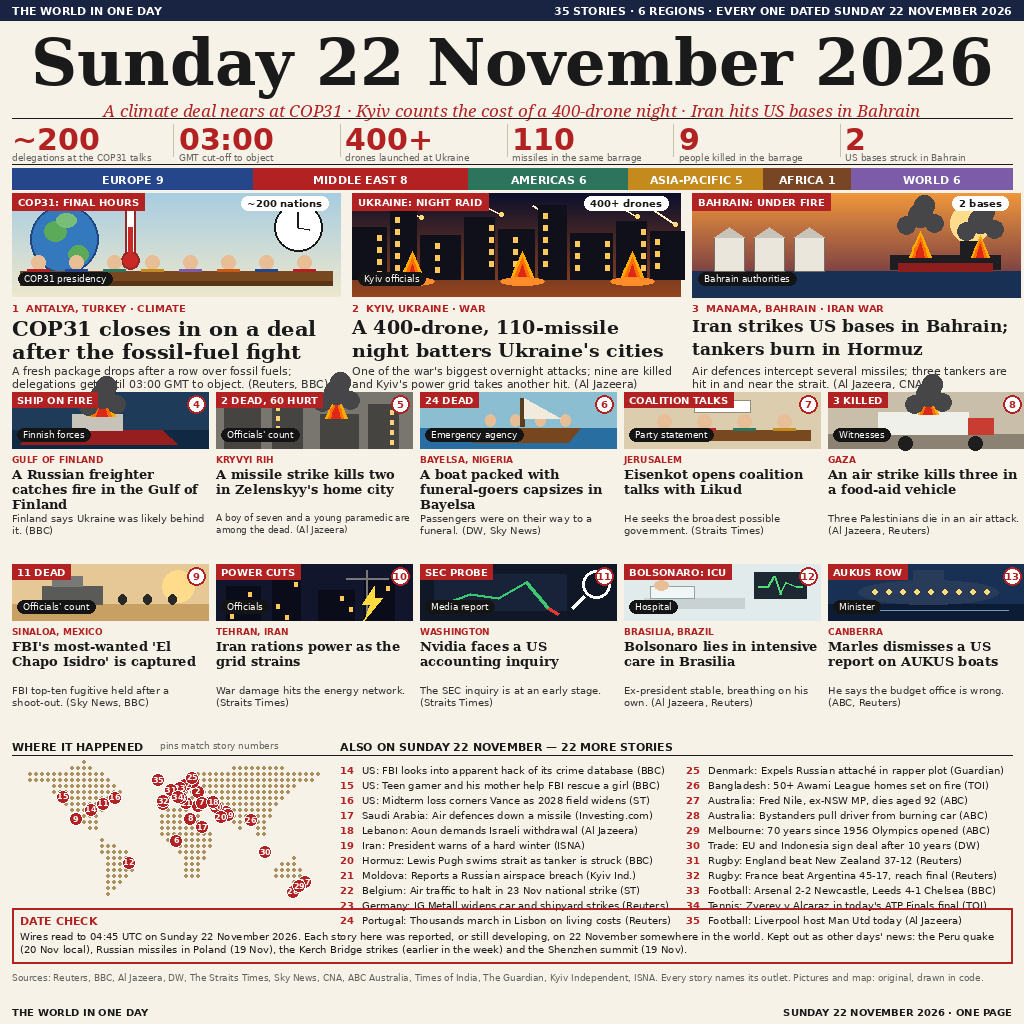
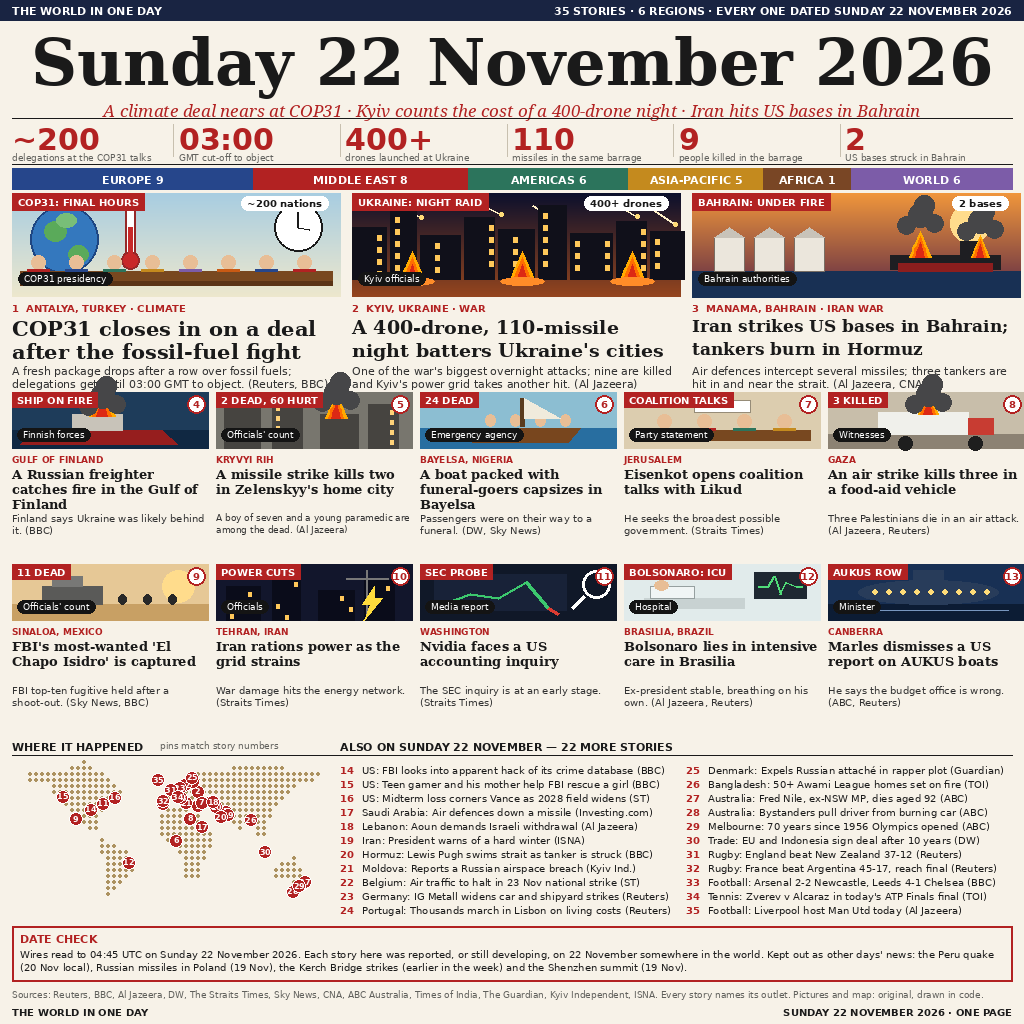
Fix DATE CHECK border: closed box, ALSO list ends above it

Changed region(s): [[0.0, 0.75, 1.0, 1.0]]

diff --git a/make_image.py b/make_image.py
@@ -6,6 +6,10 @@ numbered pins, a DATE CHECK box and a sources line. All pictures are
 drawn fresh in code with Pillow primitives (flat shapes, no photos, no
 network, no embedded images). Deterministic: same bytes on every run.
 Output: entry.png, 1024x1024 RGB.
+
+Fix (2026-11-22): the DATE CHECK box is now a closed rectangle that
+sits below the ALSO list — the ALSO row spacing is 14px so its last
+row ends at y=904, and the box runs y=926..981, clear of the briefs.
 """
 
 import math
@@ -667,6 +671,8 @@ def build():
                      lh=12)
 
     # 8. map + ALSO list
+    # FIX: ALSO rows spaced 14px (was 15px) so the last row ends at y=904,
+    # clear above the DATE CHECK box that starts at y=926.
     hy = 740
     f_h = font(SANS_B, 11)
     d.text((MX, hy), "WHERE IT HAPPENED", font=f_h, fill=INK)
@@ -681,19 +687,20 @@ def build():
     for k, (num, text) in enumerate(BRIEFS):
         col = 0 if k < 11 else 1
         bx = 340 if col == 0 else 686
-        by = hy + 24 + (k % 11) * 15
+        by = hy + 24 + (k % 11) * 14
         d.text((bx, by), str(num), font=f_brn, fill=RED)
         d.text((bx + 22, by), text, font=f_br, fill=INK)
 
-    # 9. DATE CHECK box (red border)
-    d.rectangle([MX, 908, W - MX, 963], outline=RED, width=2)
+    # 9. DATE CHECK box (red border) — FIXED: closed box y=926..981, well
+    # below the last ALSO row (ends ~y=914); heading + text inside it.
+    d.rectangle([MX, 926, W - MX, 981], outline=RED, width=2)
     f_dc = font(SANS_B, 11)
-    d.text((MX + 8, 914), "DATE CHECK", font=f_dc, fill=RED)
-    put_text(d, MX + 8, 930, DATE_CHECK[len("DATE CHECK \u2014 "):],
+    d.text((MX + 8, 932), "DATE CHECK", font=f_dc, fill=RED)
+    put_text(d, MX + 8, 948, DATE_CHECK[len("DATE CHECK \u2014 "):],
              font(SANS, 10), CW - 16, 2, fill=INK, lh=13)
 
     # 10. sources line + footer
-    d.text((MX, 972), SOURCES_LINE, font=font(SANS, 9), fill=GREY)
+    d.text((MX, 989), SOURCES_LINE, font=font(SANS, 9), fill=GREY)
     f_ft = font(SANS_B, 10)
     d.text((MX, 1006), "THE WORLD IN ONE DAY", font=f_ft, fill=INK)
     ft = "SUNDAY 22 NOVEMBER 2026 \u00b7 ONE PAGE"
